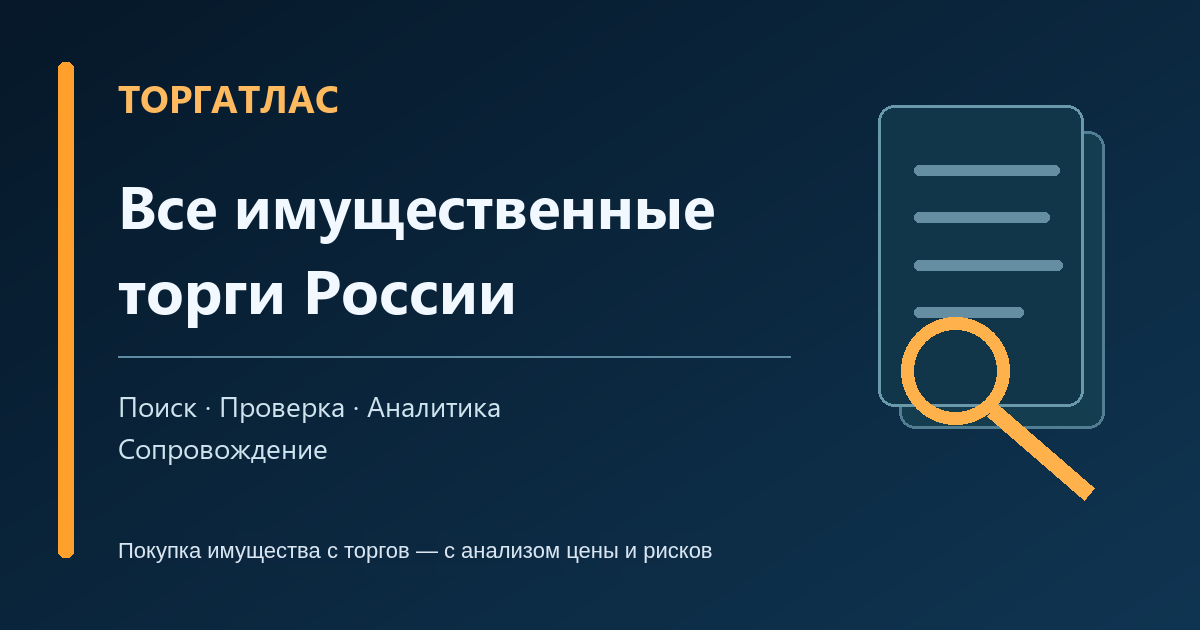
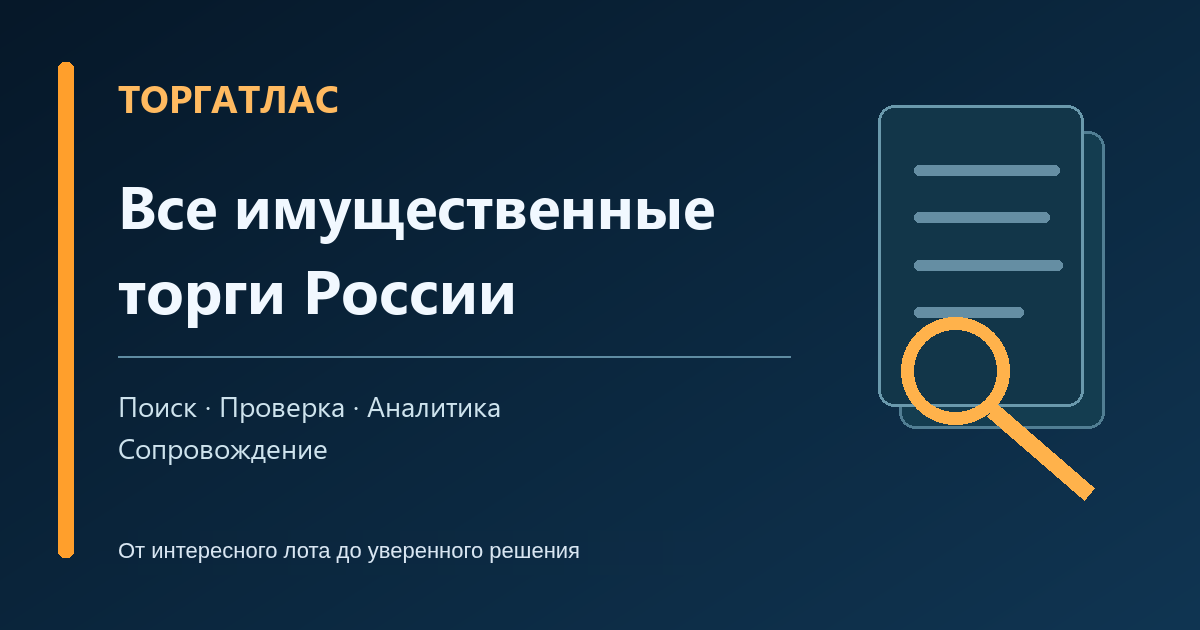
feat(site): new home offer «От интересного лота до уверенного решения»
H1, subtitle and social card line replaced; hero heights not larger at 320-1440 px; title/description/CTAs unchanged.

Changed region(s): [[0.0925, 0.8444, 0.5858, 0.9048]]

diff --git a/index.html b/index.html
@@ -32,8 +32,8 @@
     <div class="container">
       <div class="hero-content">
         <div class="eyebrow">Поиск · Проверка · Аналитика · Сопровождение</div>
-        <h1>Покупка имущества с торгов — <span class="accent">с&nbsp;анализом цены и рисков</span></h1>
-        <p class="hero-text">Помогаю найти и проверить имущество, оценить расходы и возможные риски, чтобы вы могли принять обоснованное решение об участии в торгах</p>
+        <h1>От интересного лота до <span class="accent">уверенного решения</span></h1>
+        <p class="hero-text">Помогаем найти имущество на торгах, разобраться в его стоимости, документах и условиях продажи, чтобы вы могли принять обоснованное решение о покупке</p>
         <p class="hero-subline">Уже нашли интересный лот? Пришлите ссылку — начнём с его проверки.</p>
         <div class="hero-buttons">
           <a class="button button-primary" href="/proverka-lota/#lot-check-form" data-track="lot_check_cta_click">Проверить лот</a>

diff --git a/tests/ux_hotfix_test.py b/tests/ux_hotfix_test.py
@@ -48,9 +48,10 @@ class UxHotfix(unittest.TestCase):
         html = (ROOT / "index.html").read_text(encoding="utf-8")
         h1 = re.search(r"<h1>(.*?)</h1>", html, re.S).group(1)
         text = re.sub(r"<[^>]+>", "", h1).replace("&nbsp;", " ")
-        self.assertEqual(text, "Покупка имущества с торгов — с анализом цены и рисков")
-        self.assertIn("Помогаю найти и проверить имущество, оценить расходы и возможные риски, чтобы вы могли принять обоснованное решение об участии в торгах", html)
+        self.assertEqual(text, "От интересного лота до уверенного решения")
+        self.assertIn("Помогаем найти имущество на торгах, разобраться в его стоимости, документах и условиях продажи, чтобы вы могли принять обоснованное решение о покупке", html)
         self.assertNotIn("без покупки вслепую", html)
+        self.assertNotIn("с анализом цены и рисков", html)
         self.assertIn("hero-buttons", html)
 
     def test_social_cards_identical(self):
